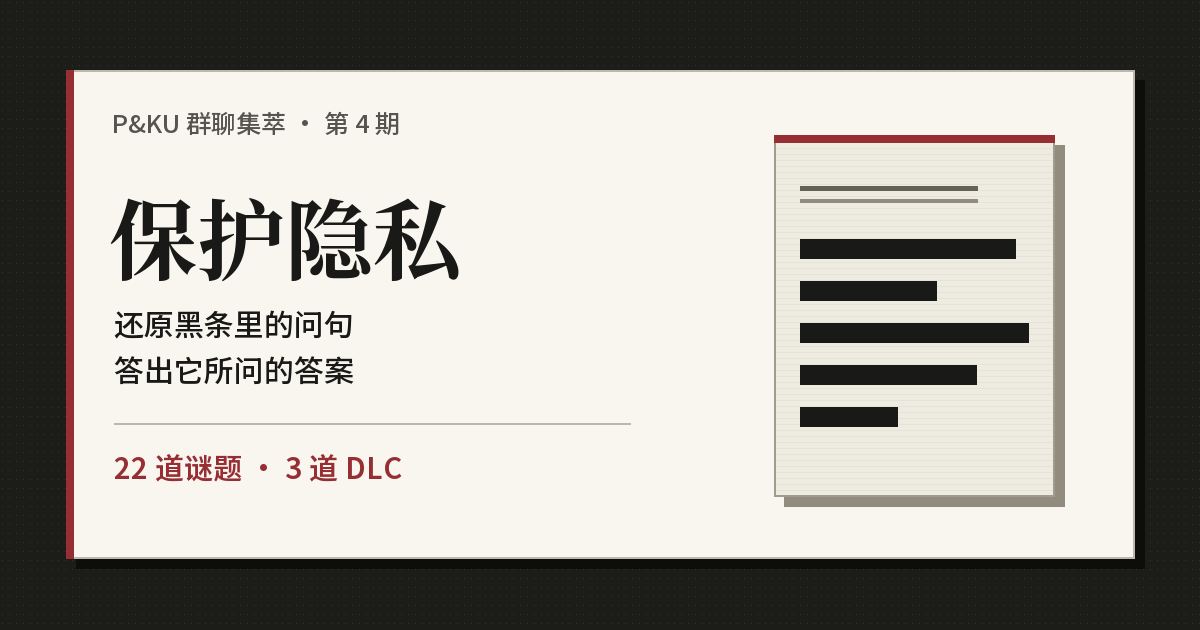
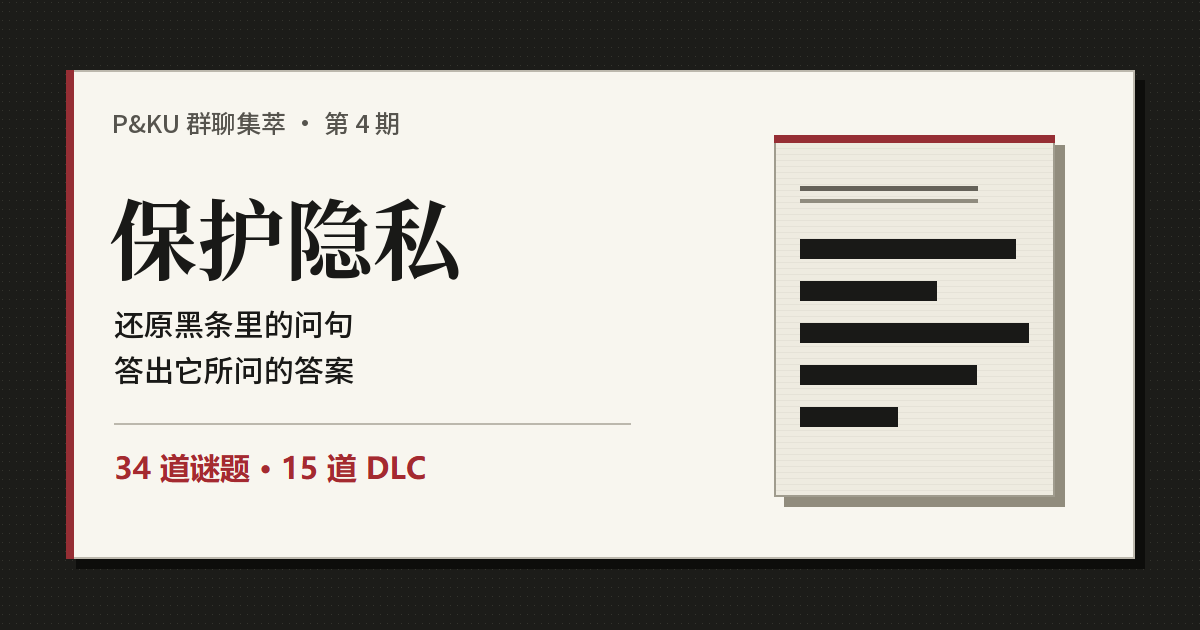
feat(protect-privacy): 补齐 DLC 并同步正式难度

Changed region(s): [[0.0925, 0.7238, 0.37, 0.7841]]

diff --git a/tests/browser/protect-privacy.spec.ts b/tests/browser/protect-privacy.spec.ts
@@ -14,7 +14,7 @@ test('fourth edition is linked from the archive home', async ({ page }, testInfo
     `PQR-${String(site.edition).padStart(2, '0')}-01`,
   );
   await expect(page.locator('#puzzles .card')).toHaveCount(19);
-  await expect(page.locator('#dlc-puzzles .card')).toHaveCount(3);
+  await expect(page.locator('#dlc-puzzles .card')).toHaveCount(15);
   await expect(page.locator('.hint-toggle')).toHaveCount(0);
   await page.screenshot({
     path: `.agents/local/protect-privacy-${testInfo.project.name}-desktop.png`,
@@ -25,7 +25,7 @@ test('fourth edition is linked from the archive home', async ({ page }, testInfo
 test('fixed difficulty, joint author filters, answers and progress work', async ({ page }) => {
   await page.goto('/protect-privacy/');
   const card = page.locator('[data-puzzle-id="1"]');
-  await expect(card.getByRole('img', { name: '难度 2/5' })).toBeVisible();
+  await expect(card.getByRole('img', { name: '难度 1/5' })).toBeVisible();
   await expect(card.locator('.difficulty-segment')).toHaveCount(5);
   await card.locator('input').fill('错误答案');
   await card.locator('input').press('Enter');
@@ -40,7 +40,10 @@ test('fixed difficulty, joint author filters, answers and progress work', async 
   for (const author of ['proton', 'ClashのRPC']) {
     await page.locator('#author-filter').selectOption(author);
     await expect(page.locator('[data-puzzle-id="18"]')).toBeVisible();
-    await expect(page.locator('.dlc-section')).toBeHidden();
+    await expect(page.locator('.dlc-section')).toBeVisible();
+    const dlcId = author === 'proton' ? 24 : 20;
+    await expect(page.locator(`[data-puzzle-id="${dlcId}"]`)).toBeVisible();
+    await expect(page.locator('[data-puzzle-id="21"]')).toBeHidden();
     await expect(page.locator('[data-puzzle-id="18"] .author-name')).toHaveText([
       'proton、',
       'ClashのRPC',
@@ -48,7 +51,9 @@ test('fixed difficulty, joint author filters, answers and progress work', async 
   }
   await page.locator('#author-filter').selectOption('');
   await page.locator('#puzzle-sort').selectOption('hard');
-  await expect(page.locator('#puzzles .card').first()).toHaveAttribute('data-puzzle-id', '6');
+  await expect(
+    page.locator('#puzzles .card').first().getByRole('img', { name: '难度 5/5' }),
+  ).toBeVisible();
   const dlc = page.locator('#answer-20');
   await dlc.fill('-1');
   await dlc.press('Enter');
@@ -166,4 +171,30 @@ test('touch toggles question layers and the completion file', async ({ browser }
   } finally {
     await context.close();
   }
+});
+
+test('new DLC authors and Latin question layers keep their layout and progress', async ({
+  page,
+}) => {
+  await page.goto('/protect-privacy/');
+  await page.locator('#author-filter').selectOption('Николай,III');
+  await expect(page.locator('#puzzles .card:visible')).toHaveCount(0);
+  await expect(page.locator('#dlc-puzzles .card:visible')).toHaveCount(1);
+  const card = page.locator('[data-puzzle-id="34"]');
+  await card.locator('input').fill('V字仇杀队');
+  await card.locator('input').press('Enter');
+  await expect(card).toHaveClass(/solved/);
+  const before = (await card.boundingBox())!;
+  const toggle = card.locator('.question-toggle');
+  await toggle.press('Enter');
+  await expect(toggle).toHaveAttribute(
+    'aria-label',
+    /Voila! In view, a humble vaudevillian veteran/,
+  );
+  const after = (await card.boundingBox())!;
+  expect(after.height).toBeCloseTo(before.height, 1);
+  expect(after.width).toBeCloseTo(before.width, 1);
+  await page.reload();
+  await expect(card).toHaveClass(/solved/);
+  await expect(page.locator('progress')).toHaveJSProperty('value', 1);
 });

diff --git a/tests/unit/protect-privacy.test.ts b/tests/unit/protect-privacy.test.ts
@@ -5,16 +5,17 @@ import source from '../../src/sites/protect-privacy/puzzles.json' with { type: '
 import prepared from '../../src/generated/protect-privacy.json' with { type: 'json' };
 
 describe('protect-privacy archive data', () => {
-  it('keeps the 22 questions, fixed difficulties and three DLC entries', () => {
+  it('keeps the 34 questions, reviewed difficulties and fifteen DLC entries', () => {
     expect(() => validatePuzzles(source)).not.toThrow();
     expect(() => validatePuzzles([{ ...source[0], difficulty: 6 }])).toThrow(/Invalid difficulty/);
-    expect(source).toHaveLength(22);
+    expect(source).toHaveLength(34);
     expect(
       source.filter((puzzle) => 'dlc' in puzzle && puzzle.dlc).map((puzzle) => puzzle.id),
-    ).toEqual([20, 21, 22]);
+    ).toEqual([20, 21, 22, 23, 24, 25, 26, 27, 28, 29, 30, 31, 32, 33, 34]);
     expect(source.every((puzzle) => !('hint' in puzzle))).toBe(true);
     expect(source.map((puzzle) => puzzle.difficulty)).toEqual([
-      2, 2, 1, 3, 1, 5, 3, 3, 1, 1, 5, 1, 1, 3, 4, 1, 4, 4, 3, 2, 3, 2,
+      1, 2, 2, 3, 3, 3, 3, 3, 1, 2, 3, 2, 2, 2, 3, 4, 2, 3, 5, 3, 3, 4, 3, 2, 3, 3, 2, 4, 4, 2, 3,
+      5, 3, 3,
     ]);
   });
 
